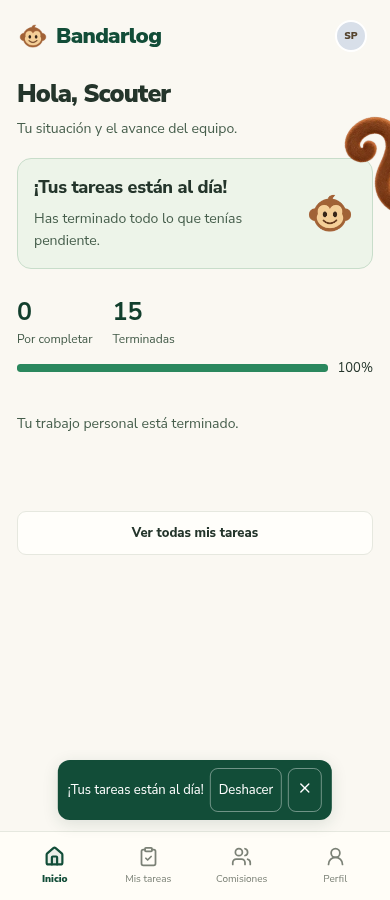
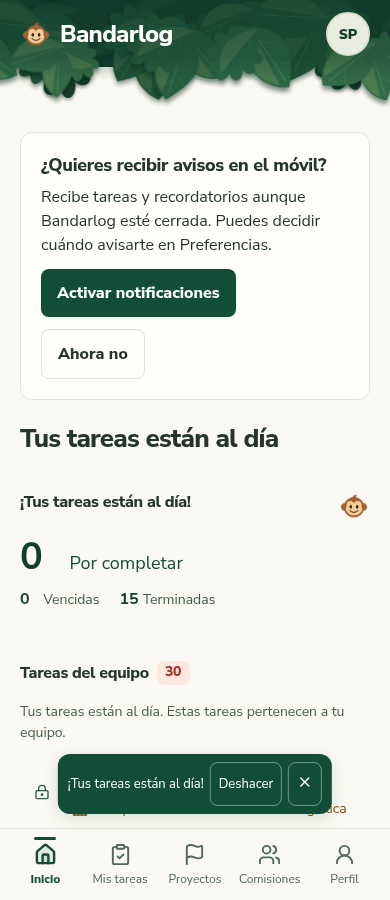
Keep mobile home scrollable during task completion celebrations

diff --git a/src/MobileUX.tsx b/src/MobileUX.tsx
@@ -292,97 +292,93 @@ export function MobileHome(props: {
       {(holding || focus.level === 'personal' || focus.level === 'commissions') && (
         <TaskSummary tasks={focus.personal} holding={holding || personalClear} />
       )}
-      {holding ? (
-        <p className="satisfaction-pause">Tarea completada</p>
-      ) : (
-        <>
-          {(focus.level === 'personal' || focus.level === 'commissions') && (
-            <section className="focus-primary">
-              {focus.level === 'commissions' && (
-                <div className="section-heading">
-                  <h2 className="team-tasks-heading">
-                    Tareas del equipo{' '}
-                    <TeamTaskCount open={focus.teamOpen.length} total={focus.teamTasks.length} />
-                  </h2>
+      <>
+        {(focus.level === 'personal' || focus.level === 'commissions') && (
+          <section className="focus-primary">
+            {focus.level === 'commissions' && (
+              <div className="section-heading">
+                <h2 className="team-tasks-heading">
+                  Tareas del equipo{' '}
+                  <TeamTaskCount open={focus.teamOpen.length} total={focus.teamTasks.length} />
+                </h2>
+              </div>
+            )}
+            {focus.level === 'commissions' && (
+              <p className="focus-context-note">
+                Tus tareas están al día. Estas tareas pertenecen a tu equipo.
+              </p>
+            )}
+            <MobileTasks {...props} tasks={focus.featured} />
+          </section>
+        )}
+        {focus.level === 'projects' && (
+          <section className="focus-primary">
+            <h2>Tus comisiones están al día</h2>
+            <p>Así avanzan tus proyectos.</p>
+            {focus.projects.slice(0, 2).map((camp) => (
+              <section key={camp.id}>
+                <ProjectOverview project={camp} />
+                <button className="text-link" onClick={() => navigate('project', camp.id)}>
+                  Ver proyecto
+                  <ChevronRight size={16} />
+                </button>
+              </section>
+            ))}
+            {focus.projects.length > 2 && (
+              <button className="secondary" onClick={() => navigate('projects')}>
+                Ver todos los proyectos
+              </button>
+            )}
+          </section>
+        )}
+        {focus.level === 'clear' && (
+          <>
+            <section className="all-clear rich-state">
+              <span className="clear-status">
+                <Check size={16} /> Sin pendientes
+              </span>
+
+              <Check size={34} aria-hidden="true" />
+              {hasContext && (
+                <div className="personal-clear compact">
+                  <p>¡Tus tareas están al día!</p>
                 </div>
               )}
-              {focus.level === 'commissions' && (
-                <p className="focus-context-note">
-                  Tus tareas están al día. Estas tareas pertenecen a tu equipo.
-                </p>
+              <p>
+                {hasContext
+                  ? 'No quedan tareas abiertas en tus comisiones ni proyectos.'
+                  : 'Aquí verás tus tareas y comisiones cuando te añadan al equipo.'}
+              </p>
+              {(finished.length > 0 || focus.ownCommissions.size > 0) && (
+                <div className="clear-summary">
+                  {finished.length > 0 && (
+                    <span>
+                      <strong>
+                        <AnimatedCounter value={finished.length} />
+                      </strong>{' '}
+                      tus tareas terminadas
+                    </span>
+                  )}
+                  {focus.ownCommissions.size > 0 && (
+                    <span>
+                      <strong>
+                        <AnimatedCounter value={focus.ownCommissions.size} />
+                      </strong>{' '}
+                      comisiones al día
+                    </span>
+                  )}
+                </div>
               )}
-              <MobileTasks {...props} tasks={focus.featured} />
             </section>
-          )}
-          {focus.level === 'projects' && (
-            <section className="focus-primary">
-              <h2>Tus comisiones están al día</h2>
-              <p>Así avanzan tus proyectos.</p>
-              {focus.projects.slice(0, 2).map((camp) => (
-                <section key={camp.id}>
-                  <ProjectOverview project={camp} />
-                  <button className="text-link" onClick={() => navigate('project', camp.id)}>
-                    Ver proyecto
-                    <ChevronRight size={16} />
-                  </button>
-                </section>
-              ))}
-              {focus.projects.length > 2 && (
-                <button className="secondary" onClick={() => navigate('projects')}>
-                  Ver todos los proyectos
-                </button>
-              )}
-            </section>
-          )}
-          {focus.level === 'clear' && (
-            <>
-              <section className="all-clear rich-state">
-                <span className="clear-status">
-                  <Check size={16} /> Sin pendientes
-                </span>
-
-                <Check size={34} aria-hidden="true" />
-                {hasContext && (
-                  <div className="personal-clear compact">
-                    <p>¡Tus tareas están al día!</p>
-                  </div>
-                )}
-                <p>
-                  {hasContext
-                    ? 'No quedan tareas abiertas en tus comisiones ni proyectos.'
-                    : 'Aquí verás tus tareas y comisiones cuando te añadan al equipo.'}
-                </p>
-                {(finished.length > 0 || focus.ownCommissions.size > 0) && (
-                  <div className="clear-summary">
-                    {finished.length > 0 && (
-                      <span>
-                        <strong>
-                          <AnimatedCounter value={finished.length} />
-                        </strong>{' '}
-                        tus tareas terminadas
-                      </span>
-                    )}
-                    {focus.ownCommissions.size > 0 && (
-                      <span>
-                        <strong>
-                          <AnimatedCounter value={focus.ownCommissions.size} />
-                        </strong>{' '}
-                        comisiones al día
-                      </span>
-                    )}
-                  </div>
-                )}
+            {recent.length > 0 && (
+              <section className="recent-finished">
+                <h2>Últimas tareas terminadas</h2>
+                <MobileTasks {...props} tasks={recent} />
               </section>
-              {recent.length > 0 && (
-                <section className="recent-finished">
-                  <h2>Últimas tareas terminadas</h2>
-                  <MobileTasks {...props} tasks={recent} />
-                </section>
-              )}
-            </>
-          )}
-        </>
-      )}
+            )}
+          </>
+        )}
+      </>
       <button className="secondary focus-full-list" onClick={() => navigate('tasks')}>
         {focus.level === 'clear' ? 'Ver mi historial de tareas' : 'Ver todas mis tareas'}
       </button>

diff --git a/tests/browser/mobile-v2.spec.ts b/tests/browser/mobile-v2.spec.ts
@@ -12,6 +12,8 @@ async function setup(
     level?: 'personal' | 'commissions' | 'projects' | 'clear';
     fail?: boolean;
     delay?: number;
+    lastPersonal?: boolean;
+    longTask?: boolean;
   } = {},
 ) {
   const fixture = mobileFixture(options.count || 10);
@@ -31,11 +33,16 @@ async function setup(
   const own = new Set(
     fixture.data.assignments.filter((a) => a.userId === fixture.user.id).map((a) => a.taskId),
   );
+  if (options.lastPersonal)
+    for (const task of fixture.allTasks)
+      if (own.has(task.id) && task.id !== 'v2-task-0') task.status = 'done';
   if (options.level && options.level !== 'personal')
     for (const task of fixture.allTasks) if (own.has(task.id)) task.status = 'done';
   if (options.level === 'projects' || options.level === 'clear')
     for (const task of fixture.data.tasks) task.status = 'done';
   if (options.level === 'clear') for (const task of fixture.allTasks) task.status = 'done';
+  if (options.longTask)
+    fixture.allTasks[0].description = 'Revisar material y organizar el equipo. '.repeat(150);
   const calls: string[] = [];
   await page.setViewportSize({ width: options.width || 390, height: 900 });
   await page.route('**/api/**', async (route) => {
@@ -163,7 +170,7 @@ test('mobile completion animates 7→6, done and progress, then undo restores au
     .click();
   await expect(page.locator('.mobile-commission-groups .commission-row')).toHaveCount(10);
 });
-test('the last personal task gets a satisfaction pause before read-only team context', async ({
+test('the last personal task celebrates without hiding the read-only team context', async ({
   page,
 }) => {
   const fixture = await setup(page);
@@ -178,9 +185,8 @@ test('the last personal task gets a satisfaction pause before read-only team con
   await page.getByRole('checkbox', { name: 'Completar Mi tarea 1', exact: true }).click();
   await expect(page.locator('.mobile-focus')).toHaveAttribute('data-holding', 'true');
   await expect(page.locator('.personal-clear')).toContainText('¡Tus tareas están al día!');
-  await expect(page.locator('.mobile-focus .focus-primary')).toHaveCount(0);
-  await page.waitForTimeout(1500);
-  await expect(page.locator('.mobile-focus .focus-primary')).toHaveCount(0);
+  expect(await page.locator('.mobile-focus .focus-primary').isVisible()).toBe(true);
+  await expect(page.locator('.mobile-focus').getByRole('checkbox')).toHaveCount(0);
   await page.screenshot({ path: 'artifacts/mobile-v2/last-task.png', animations: 'disabled' });
   await expect(page.getByRole('heading', { name: 'Mis comisiones', exact: true })).toBeVisible({
     timeout: 5000,
@@ -449,3 +455,86 @@ for (const width of [320, 430])
       });
     }
   });
+
+test.describe('mobile touch scrolling', () => {
+  test.use({ isMobile: true, hasTouch: true });
+  test('last mobile completion keeps content and touch scrolling available during celebration and undo', async ({
+    page,
+  }) => {
+    await setup(page, { lastPersonal: true });
+    await page.getByRole('checkbox', { name: 'Completar Mi tarea 1', exact: true }).click();
+    await expect(page.locator('.mobile-focus')).toHaveAttribute('data-holding', 'true');
+    await expect(page.locator('.task-celebration')).toBeVisible();
+    expect(await page.locator('.mobile-focus .focus-primary').isVisible()).toBe(true);
+    await expect(page.locator('.undo-toast')).toBeVisible();
+    const touch = await page.context().newCDPSession(page);
+    const swipe = async () => {
+      const before = await page.evaluate(() => scrollY);
+      await touch.send('Input.dispatchTouchEvent', {
+        type: 'touchStart',
+        touchPoints: [{ x: 190, y: 720 }],
+      });
+      for (const y of [650, 550, 450, 350, 250]) {
+        await touch.send('Input.dispatchTouchEvent', {
+          type: 'touchMove',
+          touchPoints: [{ x: 190, y }],
+        });
+        await page.waitForTimeout(20);
+      }
+      await touch.send('Input.dispatchTouchEvent', { type: 'touchEnd', touchPoints: [] });
+      await expect.poll(() => page.evaluate(() => scrollY)).toBeGreaterThan(before);
+    };
+    await swipe();
+    await page.getByRole('button', { name: 'Deshacer', exact: true }).click();
+    await expect(
+      page.getByRole('checkbox', { name: 'Completar Mi tarea 1', exact: true }),
+    ).toBeVisible();
+    await page.evaluate(() => scrollTo(0, 0));
+    await swipe();
+    await expect(page.locator('body')).not.toHaveCSS('overflow', 'hidden');
+  });
+
+  test('mobile task detail scrolls by touch while saving, celebrating, undoing and after closing', async ({
+    page,
+  }) => {
+    await setup(page, { longTask: true, delay: 1200 });
+    await page.locator('.mobile-task-open').first().click();
+    const dialog = page.getByRole('dialog');
+    const body = dialog.locator('.dialog-body');
+    const touch = await page.context().newCDPSession(page);
+    const scrollUp = async () => {
+      const before = await body.evaluate((el) => {
+        el.scrollTop = el.scrollHeight;
+        return el.scrollTop;
+      });
+      expect(before).toBeGreaterThan(100);
+      await touch.send('Input.dispatchTouchEvent', {
+        type: 'touchStart',
+        touchPoints: [{ x: 190, y: 240 }],
+      });
+      for (const y of [320, 420, 520, 620, 720]) {
+        await touch.send('Input.dispatchTouchEvent', {
+          type: 'touchMove',
+          touchPoints: [{ x: 190, y }],
+        });
+        await page.waitForTimeout(20);
+      }
+      await touch.send('Input.dispatchTouchEvent', { type: 'touchEnd', touchPoints: [] });
+      await expect.poll(() => body.evaluate((el) => el.scrollTop)).toBeLessThan(before);
+    };
+    await scrollUp();
+    await dialog.getByRole('button', { name: 'Completar', exact: true }).click();
+    await expect(page.locator('.operation-loading')).toBeVisible();
+    await scrollUp();
+    await expect(page.locator('.task-celebration')).toBeVisible();
+    await scrollUp();
+    await page.getByRole('button', { name: 'Deshacer', exact: true }).click();
+    await expect(dialog.getByRole('button', { name: 'Completar', exact: true })).toBeVisible();
+    await scrollUp();
+    await dialog.getByRole('button', { name: 'Cerrar', exact: true }).click();
+    await expect(page.locator('body')).not.toHaveCSS('overflow', 'hidden');
+    await page.mouse.move(190, 450);
+    await page.mouse.wheel(0, 500);
+    await expect.poll(() => page.evaluate(() => scrollY)).toBeGreaterThan(0);
+  });
+});

diff --git a/src/styles.css b/src/styles.css
@@ -3612,9 +3612,6 @@ input[type='file']::file-selector-button {
   padding: 12px 0;
   color: #245d43;
 }
-.satisfaction-pause {
-  min-height: 80px;
-}
 .mobile-task-filters {
   margin-bottom: 18px;
 }

diff --git a/DESIGN.md b/DESIGN.md
@@ -270,3 +270,5 @@ Los correos de tarea muestran «Ver tarea» y debajo tres acciones de icono en u
 ## Primera misión
 
 La invitación de Inicio es una tarjeta discreta con título «Tu primera misión», duración 2–3 minutos y acciones Empezar/Omitir. La práctica reutiliza el detalle de tarea y la checklist, sin recorridos modales ni pasos obligatorios. La etiqueta de práctica individual y la responsable ficticia evitan confundirla con trabajo real. La ayuda contextual se limita al carácter opcional de los pasos y a que las actualizaciones escritas no se guardan ni envían. La celebración es una región no modal de papel, con mono 2D original tocando trompeta, pañoleta rosa/morada y tres notas pequeñas; nunca bloquea navegación y respeta movimiento reducido y áreas seguras. Perfil incorpora Ayuda y, solo para Administración, las estadísticas del tutorial.
+
+La celebración al terminar tareas personales conserva el contenido de Inicio y su scroll; no sustituye el contexto del equipo por una pausa vacía. La liana y el aviso Deshacer permiten seguir desplazando el contenido.
